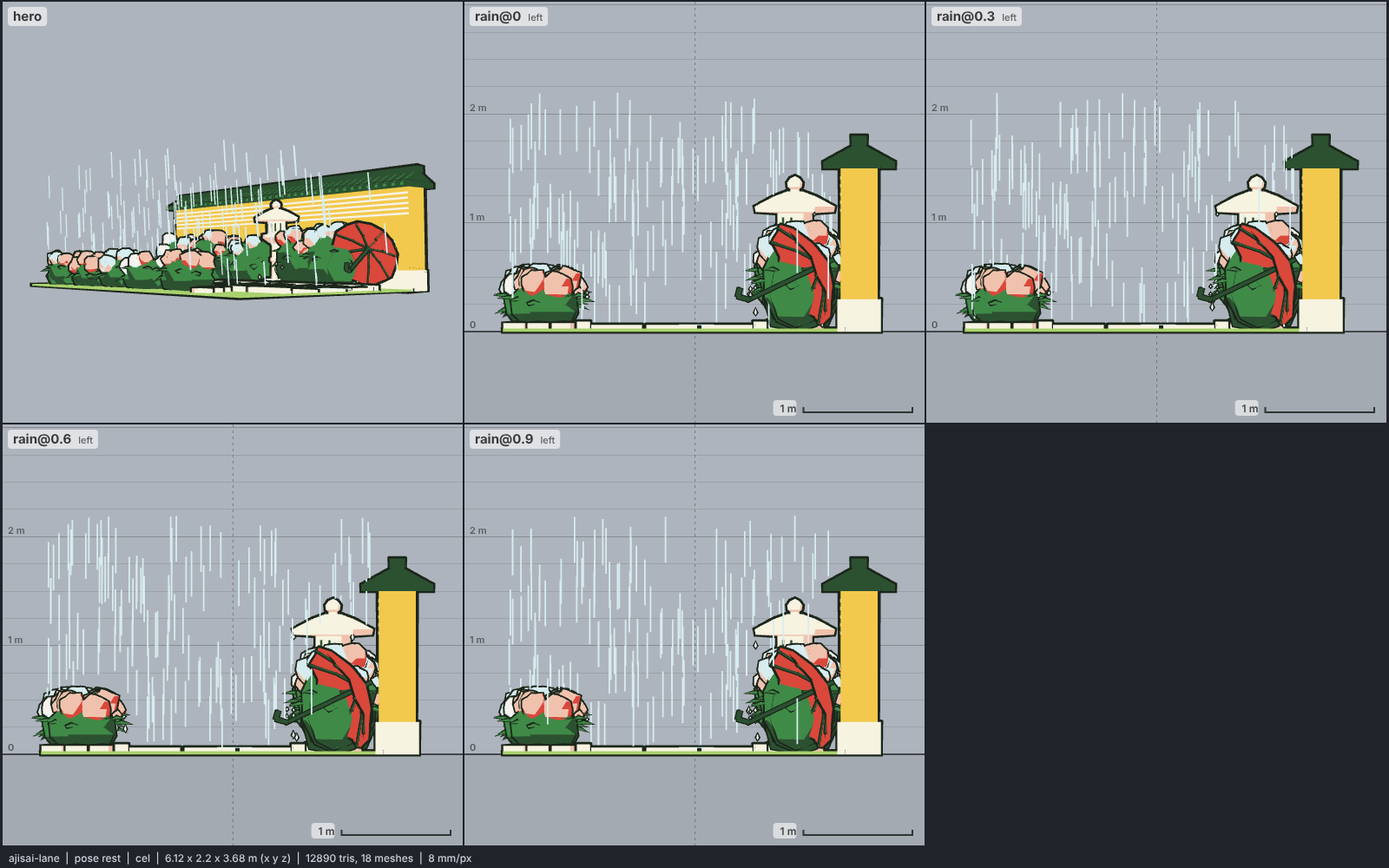
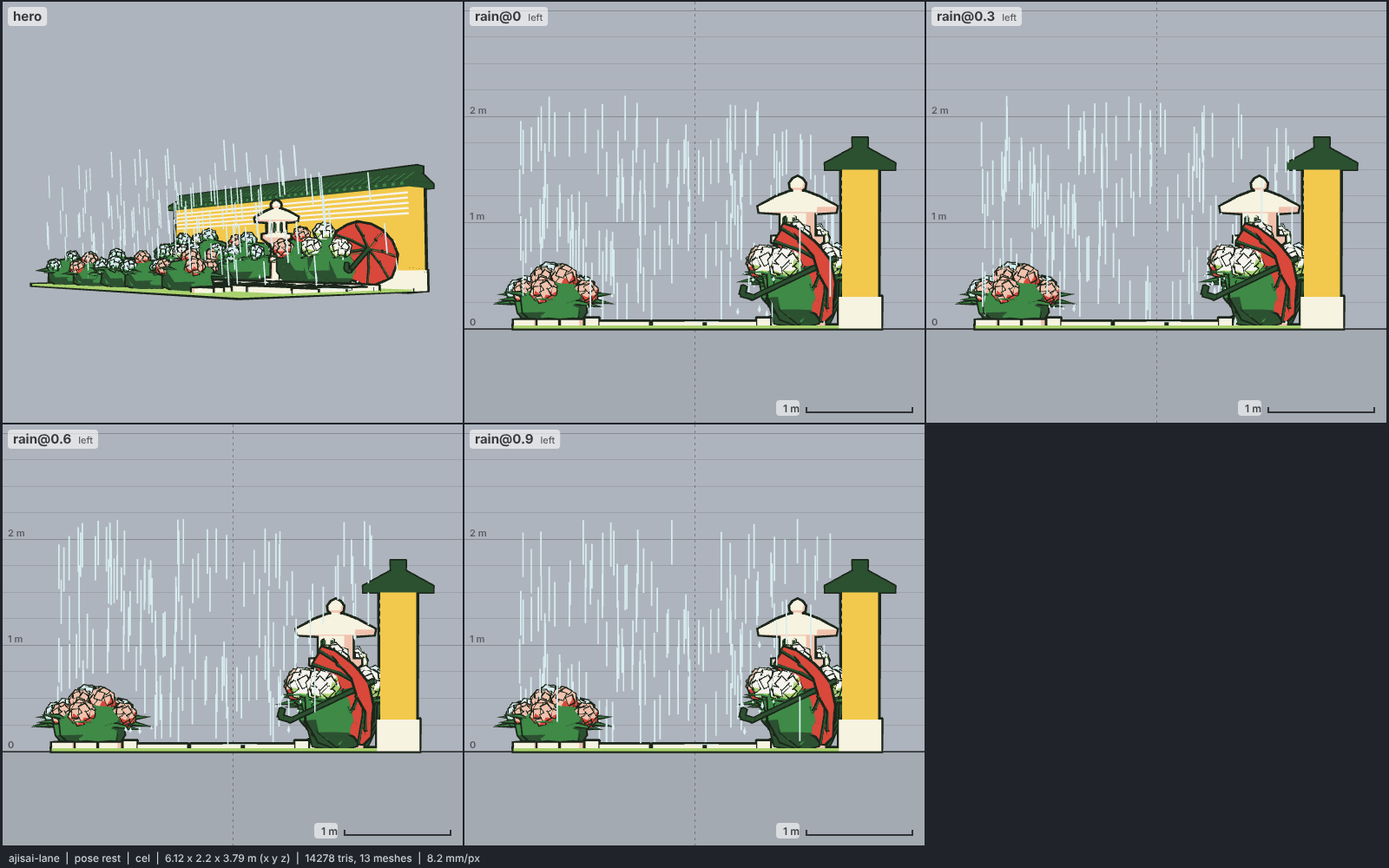
models: ajisai-lane, floret mopheads, bluer balance, 13 meshes
Hydrangea heads are now inked core domes under 14 four-petal florets, spaced
so each head reads separately; six broad pointed leaves per bush. Blue heads
sky / iris; tones on a fixed per-bed cycle (~46/36/18 blue/pink/white).
Merged meshes per material pair (18 -> 13): rain and drops share one mesh,
ripples ride the pale mesh, tiles / windows / ribs share the dark mesh.
14.3k triangles at the defaults.

Claude-Session: https://claude.ai/code/session_01RarBCdt4E1fNHHaUKaW5GL

diff --git a/models/ajisai-lane.js b/models/ajisai-lane.js
@@ -12,37 +12,42 @@
 //   WALL     a sujibei-style temple wall: a stone plinth, a plastered body with five pale horizontal lines (the
 //            temple-rank stripes) near the top, and a small gabled tile cap: an eave fascia slab, a gable prism, a ridge
 //            box, tile-row lines and eave-tile ends on the street slope.
-//   AJISAI   each bush is a leaf mound (three bumped, squashed spheres), ~10 pointed leaves (closed 5-point pyramids)
-//            fanned out of the mound's lower half, and 5-7 blossom balls (bumped spheres, the facets read as florets)
-//            seated on the upper half. One colour per bush (blue, pink, white) with an odd ball of a neighbour's colour.
-//            Back bushes 0.95-1.15 m, front 0.7-0.85 m and gapped so the paving shows in the hero view.
+//   AJISAI   each bush is a leaf mound (three bumped, squashed spheres), six broad pointed-oval leaves (closed
+//            hexagon bipyramids, bent down along the midrib) drooping out under and between the heads, and 5-6 mophead
+//            heads: a crowning head and a ring below it, spaced so a rim of leaf shows round each. A head is an inked
+//            core dome under 14 four-petal florets (low square pyramids, each turned at random) spread over its outer
+//            cap on a golden-angle spiral, so it reads as a dome of small flowers, not one rock. One tone per bush on a
+//            fixed cycle per bed (~46 % blue, 36 % pink, 18 % white of the heads), with an odd head of another tone.
+//            Back bushes 0.92-1.06 m (heads 0.17 m), front 0.52-0.62 m (0.14 m) and gapped so the paving shows.
 //   PROPS    a kasuga-style stone lantern (hexagonal lathes: base, shaft, platform, light box with dark windows, roof,
 //            jewel) in a gap of the back bed; three stepping stones across the front bed; an open umbrella (a scalloped
 //            cone shell on 8 inked ribs, shaft and handle) with its crown against the wall and its handle on the lane.
-//   RAIN     clip "rain" (1.2 s loop): ONE mesh of crossed thin quads (straight streaks, slanted by a light wind) that
-//            fall 3 wraps of the band per loop; ONE mesh of drops that swell at leaf, umbrella-rim and lantern-roof
-//            tips, fall under gravity and vanish into the ground; ONE mesh of ripple rings growing on the puddles.
-//            Positions are rewritten in pose() from literal per-item tables; nothing reads a clock.
+//   RAIN     clip "rain" (1.2 s loop): crossed thin quads (straight streaks, slanted by a light wind) that fall 3
+//            wraps of the band per loop, and teardrops that swell at leaf, umbrella-rim and lantern-roof tips, fall under
+//            gravity and vanish into the ground, all in ONE mesh; ripple rings growing on the puddles ride on the pale
+//            mesh after the wall stripes and glints. Positions are rewritten in pose(); nothing reads a clock.
 //   Every closed part is wound from a point inside it or an explicit outward normal, never by hand.
 // Proportions (real size; base unit the lane width 1.5 m): length 6 m (4 lane widths); kerbs 0.12 m; beds 0.68 m
 // deep; wall plinth 0.3, body to 1.5, cap ridge 1.80 m (1.2 lane widths); lantern 1.42 m; umbrella 1.0 m across;
-// ajisai balls 0.11-0.16 m radius; rain band 2.2 m (the top of the set with rain on).
+// ajisai heads 0.13-0.19 m radius; rain band 2.2 m (the top of the set with rain on).
 // Options: build(THREE, kit, colors, { length, rain, height }).
 //   length  lane length in m (default 6); bushes, slabs, puddles and rain scale with it; the umbrella and stepping
 //           stones stay ~0.65 / 1.0 m from the +X end, the lantern at 0.1 length.
 //   rain    true (default) | false | a density number (1 = ~150 streaks over 6 m). false drops the rain meshes and
 //           the clip; the top is then the wall cap.
 //   height  scales the whole set uniformly so its rest top is `height`.
-// Budget: 12.9k triangles at the defaults (ajisai ~9.5k, rain ~1.5k), 18 meshes. The front bed stops 1.5 m short of the
-// +X end (stepping stones on grass there) and the umbrella stands at that end, so the low hero camera sees the paving.
+// Budget: 14.3k triangles at the defaults (ajisai ~10.6k, rain ~1.6k), 13 meshes (one per material pair: tiles,
+// lantern windows and umbrella ribs share the dark mesh). The front bed stops 1.5 m short of the +X end (stepping
+// stones on grass there) and the umbrella stands at that end, so the low hero camera sees the paving.
 // Colours (meadow, the one script: greens and a pale sky; no brown):
 //   moss line #a9d16e / iris #3f8a47; paving, kerbs, lantern, stepping stones, plinth moon #f7f3e1 / skin #f0c2ae
 //   (pale wet granite; shade only on far faces); puddles sky #d7ecef flat, glints and ripples sclera #f6f3ee flat;
 //   wall plaster practical #f2c94c / skin (the ochre sujibei, the one warm field the hydrangeas sit against), stripes
-//   sclera flat; tiles hair #2c5131 flat with iris tile lines; leaves iris / hair; blossoms blue sky / skin (the
-//   mauve flush of a turning bloom), pink skin / accent #d9483b, white sclera / sky; lantern windows hair flat;
-//   umbrella accent / hair at -0.5 (the strong red spot; the camera-facing inside stays red), ribs and handle hair; rain streaks sky, drops sclera / sky
-//   with a 2 px hull. hair stays lighter than ink #1c261b and differs from the leaf base.
+//   sclera flat; tiles, lantern windows, umbrella ribs and handle hair #2c5131 flat (inked) with iris tile lines;
+//   leaves iris / hair; heads blue sky / iris at 0.4 (cool sky florets with deep green in their shade facets, the
+//   only blue the script has), pink skin / accent #d9483b, white sclera / line (the green-white of a fresh head);
+//   umbrella accent / hair at -0.5 (the strong red spot; the camera-facing inside stays red); rain streaks and drops
+//   sky, unlit and uninked. hair stays lighter than ink #1c261b and differs from the leaf base.
 
 export const meta = {
   name: "ajisai-lane",
@@ -51,16 +56,15 @@ export const meta = {
   colors: {
     moss: "#a9d16e", mossShade: "#3f8a47",
     stone: "#f7f3e1", stoneShade: "#f0c2ae",
-    puddle: "#d7ecef", glint: "#f6f3ee",
-    plaster: "#f2c94c", plasterShade: "#f0c2ae", stripe: "#f6f3ee",
+    puddle: "#d7ecef", pale: "#f6f3ee",
+    plaster: "#f2c94c", plasterShade: "#f0c2ae",
     tile: "#2c5131", tileLine: "#3f8a47",
     leaf: "#3f8a47", leafShade: "#2c5131",
-    blue: "#d7ecef", blueShade: "#f0c2ae",
+    blue: "#d7ecef", blueShade: "#3f8a47",
     pink: "#f0c2ae", pinkShade: "#d9483b",
-    white: "#f6f3ee", whiteShade: "#d7ecef",
-    window: "#2c5131",
-    umbrella: "#d9483b", umbrellaShade: "#2c5131", rib: "#2c5131",
-    rain: "#d7ecef", drop: "#f6f3ee", dropShade: "#d7ecef",
+    white: "#f6f3ee", whiteShade: "#a9d16e",
+    umbrella: "#d9483b", umbrellaShade: "#2c5131",
+    rain: "#d7ecef",
   },
   poses: ["rest"],
 };
@@ -199,26 +203,26 @@ export function build(THREE, kit, colors = meta.colors, opts = {}) {
     puddles.push([cx, cz, rx, rz]);
     prism("puddle", blobOutline(cx, cz, rx, rz, i), PY - 0.004, PY + 0.004);
     const gy = PY + 0.0055, gx = cx - rx * 0.25, gz = cz - rz * 0.25;
-    tri("glint", [gx - rx * 0.4, gy, gz + 0.012], [gx + rx * 0.35, gy, gz - 0.025], [gx + rx * 0.4, gy, gz + 0.008], [gx, gy - 1, gz]);
-    tri("glint", [gx - rx * 0.4, gy, gz + 0.012], [gx + rx * 0.4, gy, gz + 0.008], [gx - rx * 0.3, gy, gz + 0.04], [gx, gy - 1, gz]);
+    tri("pale", [gx - rx * 0.4, gy, gz + 0.012], [gx + rx * 0.35, gy, gz - 0.025], [gx + rx * 0.4, gy, gz + 0.008], [gx, gy - 1, gz]);
+    tri("pale", [gx - rx * 0.4, gy, gz + 0.012], [gx + rx * 0.4, gy, gz + 0.008], [gx - rx * 0.3, gy, gz + 0.04], [gx, gy - 1, gz]);
   }
 
   // ---------- wall ----------
   const WT = 0.34, ZB = ZW - WT;
   box("stone", -L / 2, L / 2, 0, 0.3, ZB - 0.03, ZW + 0.03);
   box("plaster", -L / 2 + 0.01, L / 2 - 0.01, 0.3, 1.5, ZB, ZW);
-  for (let i = 0; i < 5; i++) box("stripe", -L / 2 + 0.02, L / 2 - 0.02, 1.1 + i * 0.075, 1.13 + i * 0.075, ZW - 0.01, ZW + 0.004);
+  for (let i = 0; i < 5; i++) box("pale", -L / 2 + 0.02, L / 2 - 0.02, 1.1 + i * 0.075, 1.13 + i * 0.075, ZW - 0.01, ZW + 0.004);
   // tile cap: fascia slab, gable prism, ridge box
   const ZC = (ZW + ZB) / 2, OV = 0.16;
-  box("tile", -L / 2 - 0.04, L / 2 + 0.04, 1.5, 1.56, ZB - OV, ZW + OV);
+  box("dark", -L / 2 - 0.04, L / 2 + 0.04, 1.5, 1.56, ZB - OV, ZW + OV);
   {
     const sec = [[ZW + OV, 1.56], [ZC, 1.74], [ZB - OV, 1.56]], ref = [0, 1.6, ZC];
     for (let i = 0; i < 3; i++) {
       const [z0, y0] = sec[i], [z1, y1] = sec[(i + 1) % 3];
-      quad("tile", [-L / 2 - 0.04, y0, z0], [L / 2 + 0.04, y0, z0], [L / 2 + 0.04, y1, z1], [-L / 2 - 0.04, y1, z1], ref);
+      quad("dark", [-L / 2 - 0.04, y0, z0], [L / 2 + 0.04, y0, z0], [L / 2 + 0.04, y1, z1], [-L / 2 - 0.04, y1, z1], ref);
     }
-    for (const x of [-L / 2 - 0.04, L / 2 + 0.04]) tri("tile", [x, sec[0][1], sec[0][0]], [x, sec[1][1], sec[1][0]], [x, sec[2][1], sec[2][0]], ref);
-    box("tile", -L / 2 - 0.06, L / 2 + 0.06, 1.71, 1.8, ZC - 0.07, ZC + 0.07);
+    for (const x of [-L / 2 - 0.04, L / 2 + 0.04]) tri("dark", [x, sec[0][1], sec[0][0]], [x, sec[1][1], sec[1][0]], [x, sec[2][1], sec[2][0]], ref);
+    box("dark", -L / 2 - 0.06, L / 2 + 0.06, 1.71, 1.8, ZC - 0.07, ZC + 0.07);
     // tile rows down the street slope (decals 3 mm above it), round eave-tile ends on the fascia
     const dz = ZC - (ZW + OV), dy = 1.74 - 1.56, ln = Math.hypot(dz, dy), nz = dy / ln, ny = -dz / ln; // slope normal (+z, +y)
     const off = 0.004, n = Math.round(L / 0.16);
@@ -246,7 +250,8 @@ export function build(THREE, kit, colors = meta.colors, opts = {}) {
       const nx = Math.cos(a + Math.PI / 6 + Math.PI / 6), nzz = Math.sin(a + Math.PI / 6 + Math.PI / 6);
       const ap = 0.16 * Math.cos(Math.PI / 6) + 0.003, tx = -nzz, tz = nx, w = 0.055;
       const P = (s, y) => [xL + nx * ap + tx * s, y, LZ + nzz * ap + tz * s];
-      quadN("window", P(-w, 0.92), P(w, 0.92), P(w, 1.05), P(-w, 1.05), [nx, 0, nzz]);
+      const Q = (sv, y, o) => [P(sv, y)[0] + nx * o, y, P(sv, y)[2] + nzz * o];
+      hex("dark", [Q(-w, 0.92, -0.006), Q(w, 0.92, -0.006), Q(w, 1.05, -0.006), Q(-w, 1.05, -0.006), Q(-w, 0.92, 0.004), Q(w, 0.92, 0.004), Q(w, 1.05, 0.004), Q(-w, 1.05, 0.004)]);
     }
   }
   // stepping stones across the front bed
@@ -288,12 +293,12 @@ export function build(THREE, kit, colors = meta.colors, opts = {}) {
     };
     for (let j = 0; j < n; j += 2) {
       const p = inner(j), q = midI(j);
-      beam("rib", [q[0], q[1] - 0.012, q[2]], [p[0] * 0.99, p[1] - 0.012, p[2] * 0.99], 0.014);
-      beam("rib", [0, -0.05, 0], [q[0], q[1] - 0.012, q[2]], 0.014);
+      beam("dark", [q[0], q[1] - 0.012, q[2]], [p[0] * 0.99, p[1] - 0.012, p[2] * 0.99], 0.014);
+      beam("dark", [0, -0.05, 0], [q[0], q[1] - 0.012, q[2]], 0.014);
     }
-    beam("rib", [0, 0.06, 0], [0, -0.86, 0], 0.026);
-    beam("rib", [0, -0.84, 0], [0, -0.93, 0.07], 0.034);
-    beam("rib", [0, -0.93, 0.07], [0, -0.88, 0.13], 0.034);
+    beam("dark", [0, 0.06, 0], [0, -0.86, 0], 0.026);
+    beam("dark", [0, -0.84, 0], [0, -0.93, 0.07], 0.034);
+    beam("dark", [0, -0.93, 0.07], [0, -0.88, 0.13], 0.034);
     // drip points: the two lowest rim points
     const rim = Array.from({ length: n }, (_, j) => X(outer(j))).sort((a, b) => a[1] - b[1]);
     drips.push([rim[0][0], rim[0][1] - 0.01, rim[0][2]], [rim[2][0], rim[2][1] - 0.01, rim[2][2]]);
@@ -303,6 +308,9 @@ export function build(THREE, kit, colors = meta.colors, opts = {}) {
   for (const a of [Math.PI / 6 + Math.PI / 3, Math.PI / 6 - Math.PI / 3]) drips.push([xL + 0.36 * Math.cos(a), 1.08, LZ + 0.36 * Math.sin(a)]);
 
   // ---------- ajisai ----------
+  // tones run down a fixed cycle (10 blue, 6 pink, 4 white in 20; with the odd
+  // mixed head that lands at ~46 % blue, 36 % pink, 18 % white of the heads), so no stretch of the lane goes one colour
+  const CYCLE = "bwbpbpwbpbbpwbpbwbpb".split("").map((ch) => ({ b: "blue", p: "pink", w: "white" })[ch]);
   const bushes = [];
   for (const side of [-1, 1]) {
     const step = side < 0 ? 0.66 : 0.95, n = Math.max(2, Math.round((L - 0.3) / step));
@@ -312,68 +320,84 @@ export function build(THREE, kit, colors = meta.colors, opts = {}) {
       if (side > 0 && x > xS - 0.5) continue; // the front bed stops short of the +X end, so the lane shows in the hero view
       const zc = side < 0 ? (ZW + -BZ0) / 2 + 0.02 : (BZ0 + ZF) / 2 - 0.02;
       const R = (side < 0 ? 0.42 : 0.34) + 0.06 * hash(i, side, 32);
-      const H = side < 0 ? 0.98 + 0.16 * hash(i, side, 33) : 0.56 + 0.12 * hash(i, side, 33);
-      const hz = hash(i, side, 34), tone = hz < 0.47 ? "blue" : hz < 0.87 ? "pink" : "white";
-      bushes.push({ x, z: zc + (hash(i, side, 35) - 0.5) * 0.08, R, H, tone, side, id: i * 2 + (side > 0 ? 1 : 0) });
+      const H = side < 0 ? 0.92 + 0.14 * hash(i, side, 33) : 0.52 + 0.1 * hash(i, side, 33);
+      bushes.push({ x, z: zc + (hash(i, side, 35) - 0.5) * 0.08, R, H, side, id: i * 2 + (side > 0 ? 1 : 0) });
     }
+  }
+  for (const side of [-1, 1]) // each bed runs the cycle from its own start, so neither side goes one colour
+    bushes.filter((b) => b.side === side).forEach((b, i) => (b.tone = CYCLE[(i + (side > 0 ? 7 : 0)) % CYCLE.length]));
+  const nrm = (q) => { const l = Math.hypot(...q) || 1; return q.map((v) => v / l); };
+  // a mophead: an inked core dome under ~16 four-petal florets (low square pyramids) spread over its outer cap
+  function head(key, p, rb, ax, seed) {
+    blob(key, p, [rb * 0.8, rb * 0.72, rb * 0.8], 7, 4, 0.05, seed);
+    const t0 = nrm(cross(ax, Math.abs(ax[1]) > 0.9 ? [1, 0, 0] : [0, 1, 0])), t1 = cross(ax, t0);
+    const NF = 14, s = rb * 0.36;
+    for (let f = 0; f < NF; f++) {
+      const th = Math.acos(1 - ((f + 0.5) / NF) * 1.3), ph = f * 2.39996 + seed; // golden-angle spiral over ~105 deg
+      const n = nrm([0, 1, 2].map((q) => ax[q] * Math.cos(th) + Math.sin(th) * (t0[q] * Math.cos(ph) + t1[q] * Math.sin(ph))));
+      const a = nrm(cross(n, Math.abs(n[1]) > 0.9 ? [1, 0, 0] : [0, 1, 0])), b2 = cross(n, a);
+      const rot = hash(seed, f, 7) * Math.PI, ca = Math.cos(rot), sa = Math.sin(rot);
+      const u = [0, 1, 2].map((q) => a[q] * ca + b2[q] * sa), v = [0, 1, 2].map((q) => b2[q] * ca - a[q] * sa);
+      const q0 = [0, 1, 2].map((q) => p[q] + n[q] * rb * 0.74);
+      const P = (i, j) => [0, 1, 2].map((q) => q0[q] + (u[q] * i + v[q] * j) * s);
+      const c4 = [P(1, 0), P(0, 1), P(-1, 0), P(0, -1)], apex = [0, 1, 2].map((q) => q0[q] + n[q] * s * 0.5);
+      const ref = [0, 1, 2].map((q) => q0[q] + n[q] * s * 0.15);
+      for (let k = 0; k < 4; k++) tri(key, c4[k], c4[(k + 1) % 4], apex, ref);
+      tri(key, c4[0], c4[1], c4[2], ref); tri(key, c4[0], c4[2], c4[3], ref);
+    }
+  }
+  // a broad pointed oval leaf: a flat hexagon outline lifted along its midrib (closed bipyramid)
+  function leaf(r0, dir, ln, wd) {
+    const side = nrm([-dir[2], 0, dir[0]]), up = nrm(cross(side, dir));
+    const at = (sv, w) => [0, 1, 2].map((q) => r0[q] + dir[q] * ln * sv + side[q] * w - up[q] * 0.07 * ln * sv * sv * 2);
+    const rim = [at(0, 0), at(0.3, wd), at(0.68, wd * 0.78), at(1, 0), at(0.68, -wd * 0.78), at(0.3, -wd)];
+    const mid = at(0.45, 0), top = [0, 1, 2].map((q) => mid[q] + up[q] * 0.018), bot = [0, 1, 2].map((q) => mid[q] - up[q] * 0.008);
+    for (let k = 0; k < 6; k++) { tri("leaf", rim[k], rim[(k + 1) % 6], top, mid); tri("leaf", rim[k], rim[(k + 1) % 6], bot, mid); }
+    return rim[3];
   }
   for (const b of bushes) {
     const { x, z, R, H, id, side } = b, my = H * 0.4;
     blob("leaf", [x, my, z], [R, H * 0.39, R * 0.82], 8, 5, 0.12, id);
-    blob("leaf", [x - R * 0.55, H * 0.28, z + side * 0.04], [R * 0.6, H * 0.26, R * 0.6], 7, 4, 0.12, id + 100);
-    blob("leaf", [x + R * 0.55, H * 0.3, z - side * 0.03], [R * 0.6, H * 0.26, R * 0.6], 7, 4, 0.12, id + 200);
-    // leaves fanning out of the mound's lower half, mostly toward the lane and the ends
-    for (let k = 0; k < 10; k++) {
-      const a = (k / 10) * 2 * Math.PI + hash(id, k, 1) * 0.5, el = -0.15 + 0.5 * hash(id, k, 2);
-      const d = [Math.cos(a) * Math.cos(el), Math.sin(el), Math.sin(a) * Math.cos(el) * 0.85];
-      const r0 = [x + d[0] * R * 0.8, my + d[1] * H * 0.38, z + d[2] * R * 0.8];
-      const ln = 0.17 + 0.07 * hash(id, k, 3), wd = 0.06;
-      const t = [r0[0] + d[0] * ln, r0[1] + d[1] * ln - 0.04, r0[2] + d[2] * ln];
-      const sd = [-d[2], 0, d[0]], sl = Math.hypot(...sd) || 1;
-      const mid = [0, 1, 2].map((q) => r0[q] + (t[q] - r0[q]) * 0.45);
-      const l = [0, 1, 2].map((q) => mid[q] + (sd[q] / sl) * wd), rr = [0, 1, 2].map((q) => mid[q] - (sd[q] / sl) * wd);
-      const u = [mid[0], mid[1] + 0.025, mid[2]];
-      const ref = [0, 1, 2].map((q) => (r0[q] + t[q] + l[q] + rr[q] + u[q]) / 5);
-      tri("leaf", r0, l, u, ref); tri("leaf", l, t, u, ref); tri("leaf", t, rr, u, ref); tri("leaf", rr, r0, u, ref);
-      tri("leaf", r0, l, t, ref); tri("leaf", r0, t, rr, ref);
-    }
-    // blossom balls on the upper half
-    const nb = 6 + Math.floor(hash(id, 41) * 3);
-    for (let k = 0; k < nb; k++) {
-      const a = (k / nb) * 2 * Math.PI + hash(id, k, 42), el = 0.35 + 0.75 * hash(id, k, 43);
-      const rb = 0.1 + 0.045 * hash(id, k, 44);
+    blob("leaf", [x - R * 0.55, H * 0.27, z + side * 0.04], [R * 0.58, H * 0.25, R * 0.58], 6, 3, 0.1, id + 100);
+    blob("leaf", [x + R * 0.55, H * 0.29, z - side * 0.03], [R * 0.58, H * 0.25, R * 0.58], 6, 3, 0.1, id + 200);
+    // heads: one crowning, a ring below it; centres spaced so each head keeps a rim of leaf around it
+    const m = R > 0.4 ? 5 : 4, az0 = hash(id, 41) * 2 * Math.PI, rb0 = side < 0 ? 0.17 : 0.14, heads = [[hash(id, 46) * 6.28, 1.35]];
+    for (let k = 0; k < m; k++) heads.push([az0 + (k / m) * 2 * Math.PI, 0.42 + 0.1 * hash(id, k, 43)]);
+    heads.forEach(([a, el], k) => {
       const d = [Math.cos(a) * Math.cos(el), Math.sin(el), Math.sin(a) * Math.cos(el)];
-      const p = [x + d[0] * (R * 0.92), my + d[1] * (H * 0.42) + rb * 0.15, z + d[2] * (R * 0.78)];
-      const tone = hash(id, k, 45) < 0.12 ? (b.tone === "pink" ? "blue" : "pink") : b.tone;
-      blob(tone, p, [rb, rb * 0.9, rb], 8, 6, 0.22, id * 31 + k);
-    }
-    // drips from the lane-side leaf tips
-    for (let k = 0; k < 2; k++) {
-      const xx = x + (k ? 0.5 : -0.4) * R * hash(id, k, 51), zz = z - side * R * 0.95;
-      drips.push([xx, 0.32 + 0.1 * hash(id, k, 52), zz]);
+      const rb = rb0 * (0.9 + 0.2 * hash(id, k, 44));
+      const p = [x + d[0] * (R + rb * 0.2), my + d[1] * (H * 0.39 + rb * 0.25), z + d[2] * (R * 0.82 + rb * 0.2)];
+      const tone = hash(id, k, 45) < 0.1 ? (b.tone === "pink" ? "blue" : "pink") : b.tone;
+      head(tone, p, rb, nrm([d[0], d[1] + 0.5, d[2]]), id * 31 + k);
+    });
+    // six broad leaves under and between the ring heads, drooping out over the bed
+    for (let k = 0; k < 6; k++) {
+      const a = az0 + ((k + 0.5) / 6) * 2 * Math.PI, el = 0.05 + 0.25 * hash(id, k, 2);
+      const d = nrm([Math.cos(a) * Math.cos(el), Math.sin(el), Math.sin(a) * Math.cos(el) * 0.85]);
+      const r0 = [x + d[0] * R * 0.75, my + d[1] * H * 0.36, z + d[2] * R * 0.62];
+      const tip = leaf(r0, d, 0.26 + 0.06 * hash(id, k, 3), 0.085);
+      if ((side < 0 ? d[2] > 0.3 : d[2] < -0.3) && tip[1] > 0.12) drips.push([tip[0], tip[1] - 0.012, tip[2]]);
     }
   }
 
-  // ---------- static meshes ----------
+  // ---------- static meshes (one per material pair) ----------
   const MAT = {
     moss: [c.moss, c.mossShade, 0.3, true, 3],
     stone: [c.stone, c.stoneShade, 0.2, true, 3],
     puddle: [c.puddle, c.puddle, 0.35, true, 2],
-    glint: [c.glint, c.glint, 0.35, false],
     plaster: [c.plaster, c.plasterShade, 0.1, true, 4],
-    stripe: [c.stripe, c.stripe, 0.35, false],
-    tile: [c.tile, c.tile, 0.35, true, 3],
+    dark: [c.tile, c.tile, 0.35, true, 2], // tiles, lantern windows, umbrella ribs, shaft and handle
     tileLine: [c.tileLine, c.tileLine, 0.35, false],
     leaf: [c.leaf, c.leafShade, 0.25, true, 2],
-    blue: [c.blue, c.blueShade, 0.15, true, 2],
-    pink: [c.pink, c.pinkShade, 0.15, true, 2],
-    white: [c.white, c.whiteShade, 0.15, true, 2],
-    window: [c.window, c.window, 0.35, false],
+    blue: [c.blue, c.blueShade, 0.4, true, 1.5],
+    pink: [c.pink, c.pinkShade, 0.2, true, 1.5],
+    white: [c.white, c.whiteShade, 0.2, true, 1.5],
     umbrella: [c.umbrella, c.umbrellaShade, -0.5, true, 3],
-    rib: [c.rib, c.rib, 0.35, true, 1.5],
+    pale: [c.pale, c.pale, -2, false], // wall stripes and puddle glints; the ripples join it when it rains
   };
   const sb = new THREE.Box3();
   for (const [key, arr] of Object.entries(soups)) {
+    if (key === "pale" && density > 0) continue;
     const [base, shade, threshold, outline, px] = MAT[key];
     const g = new THREE.BufferGeometry();
     g.setAttribute("position", new THREE.Float32BufferAttribute(arr, 3));
@@ -385,7 +409,7 @@ export function build(THREE, kit, colors = meta.colors, opts = {}) {
     sb.union(g.boundingBox);
   }
 
-  // ---------- rain: streaks, drops, ripples (rewritten per frame) ----------
+  // ---------- rain: streaks and drops in one mesh, ripples on the pale mesh (rewritten per frame) ----------
   const T = 1.2, HB = 2.2, LS = 0.42, WRAPS = 3, SLANT = -0.1, G = 9.8;
   const dyn = [];
   if (density > 0) {
@@ -394,13 +418,22 @@ export function build(THREE, kit, colors = meta.colors, opts = {}) {
     const zr = [ZW + 0.08, ZF - 0.05], streaks = [];
     for (let i = 0; i < ns; i++)
       streaks.push([-L / 2 + 0.3 + hash(i, 61) * (L - 0.3), zr[0] + hash(i, 62) * (zr[1] - zr[0]), hash(i, 63) * PB]);
-    const sp = new Float32Array(ns * 24 * 3);
+    // drops: a teardrop (tip up) after the streaks in the same buffer
+    const tpl = [[0, 1.7, 0], ...Array.from({ length: 6 }, (_, i) => [Math.cos((i / 6) * 2 * Math.PI), 0, Math.sin((i / 6) * 2 * Math.PI)]), [0, -1, 0]];
+    const faces = [];
+    for (let i = 0; i < 6; i++) faces.push([0, 1 + ((i + 1) % 6), 1 + i], [7, 1 + i, 1 + ((i + 1) % 6)]);
+    const S0 = ns * 24 * 3, sp = new Float32Array(S0 + drips.length * faces.length * 9), DR = 0.018;
     const g = new THREE.BufferGeometry();
     g.setAttribute("position", new THREE.BufferAttribute(sp, 3));
     const mesh = kit.toon(g, c.rain, c.rain, { threshold: -2, outline: false, doubleSided: true });
     mesh.name = "rain";
     mesh.frustumCulled = false;
     body.add(mesh);
+    const dropAt = (i, cx, cy, cz, s, sy) => {
+      let o = S0 + i * faces.length * 9;
+      for (const f of faces) for (const v of f) { sp[o++] = cx + tpl[v][0] * s; sp[o++] = cy + tpl[v][1] * s * sy; sp[o++] = cz + tpl[v][2] * s; }
+    };
+    const dph = drips.map((_, i) => hash(i, 71));
     dyn.push((t) => {
       let o = 0;
       const put = (p) => (sp[o++] = p[0], sp[o++] = p[1], sp[o++] = p[2]);
@@ -413,58 +446,31 @@ export function build(THREE, kit, colors = meta.colors, opts = {}) {
           put(a); put(e); put(b); put(a); put(d); put(e);
         }
       }
-      g.attributes.position.needsUpdate = true;
-      g.computeBoundingBox(); g.computeBoundingSphere();
-    });
-    // drops: a teardrop (tip up), swells at its tip for 55 % of its cycle, then falls and vanishes into the ground
-    const tpl = [[0, 1.7, 0], ...Array.from({ length: 6 }, (_, i) => [Math.cos((i / 6) * 2 * Math.PI), 0, Math.sin((i / 6) * 2 * Math.PI)]), [0, -1, 0]];
-    const faces = [];
-    for (let i = 0; i < 6; i++) faces.push([0, 1 + ((i + 1) % 6), 1 + i], [7, 1 + i, 1 + ((i + 1) % 6)]);
-    const dp = new Float32Array(drips.length * faces.length * 9), dn = new Float32Array(dp.length);
-    const DR = 0.014;
-    const dropAt = (i, cx, cy, cz, s, sy) => {
-      let o = i * faces.length * 9;
-      for (const f of faces) for (const v of f) { dp[o++] = cx + tpl[v][0] * s; dp[o++] = cy + tpl[v][1] * s * sy; dp[o++] = cz + tpl[v][2] * s; }
-    };
-    drips.forEach((p, i) => dropAt(i, p[0], p[1], p[2], DR, 1));
-    const g2 = new THREE.BufferGeometry();
-    g2.setAttribute("position", new THREE.BufferAttribute(dp, 3));
-    g2.computeVertexNormals();
-    // hull normals from the template (radial), so they stay valid when a drop moves, stretches or collapses
-    for (let i = 0; i < dp.length / 3; i++) {
-      const v = tpl[faces[Math.floor((i % (faces.length * 3)) / 3)][i % 3]], l = Math.hypot(...v);
-      dn.set([v[0] / l, v[1] / l, v[2] / l], i * 3);
-    }
-    g2.setAttribute("hullNormal", new THREE.BufferAttribute(dn, 3));
-    const dm = kit.toon(g2, c.drop, c.dropShade, { threshold: 0.2, px: 2 });
-    dm.name = "drops";
-    dm.frustumCulled = false;
-    body.add(dm);
-    const dph = drips.map((_, i) => hash(i, 71));
-    dyn.push((t) => {
+      // each drop swells at its tip for 55 % of its cycle, falls under gravity, then vanishes into the ground
       drips.forEach(([x, y, z], i) => {
         const u = ((((t / T + dph[i]) % 1) + 1) % 1), tf = Math.sqrt((2 * (y - GY)) / G) / T;
         if (u < 0.55) dropAt(i, x, y - DR * 0.4 * (u / 0.55), z, DR * (0.45 + 0.55 * (u / 0.55)), 1);
         else if (u < 0.55 + tf) { const tau = (u - 0.55) * T; dropAt(i, x, y - 0.5 * G * tau * tau, z, DR, 1.6); }
         else dropAt(i, x, GY * 0.5, z, 0, 1);
       });
-      g2.attributes.position.needsUpdate = true;
-      g2.computeBoundingBox(); g2.computeBoundingSphere();
+      g.attributes.position.needsUpdate = true;
+      g.computeVertexNormals(); g.computeBoundingBox(); g.computeBoundingSphere();
     });
-    // ripples: two rings per puddle, half a loop apart, growing and thinning
+    // ripples: two rings per puddle, half a loop apart, growing and thinning; written after the static pale parts
     const rings = [];
     puddles.forEach(([cx, cz, rx, rz], i) => {
       for (let k = 0; k < 2; k++) rings.push([cx + (hash(i, k, 81) - 0.5) * rx * 0.5, cz + (hash(i, k, 82) - 0.5) * rz * 0.4, rz * 0.62, k * 0.5 + hash(i, 83) * 0.2]);
     });
-    const RS = 14, rp = new Float32Array(rings.length * RS * 18);
+    const pale = soups.pale ?? [], RS = 14, rp = new Float32Array(pale.length + rings.length * RS * 18);
+    rp.set(pale);
     const g3 = new THREE.BufferGeometry();
     g3.setAttribute("position", new THREE.BufferAttribute(rp, 3));
-    const rm = kit.toon(g3, c.glint, c.glint, { threshold: -2, outline: false });
-    rm.name = "ripples";
+    const rm = kit.toon(g3, c.pale, c.pale, { threshold: -2, outline: false });
+    rm.name = "pale";
     rm.frustumCulled = false;
     body.add(rm);
     dyn.push((t) => {
-      let o = 0;
+      let o = pale.length;
       const put = (x, y, z) => (rp[o++] = x, rp[o++] = y, rp[o++] = z);
       const y = PY + 0.006;
       for (const [cx, cz, rmax, ph] of rings) {
